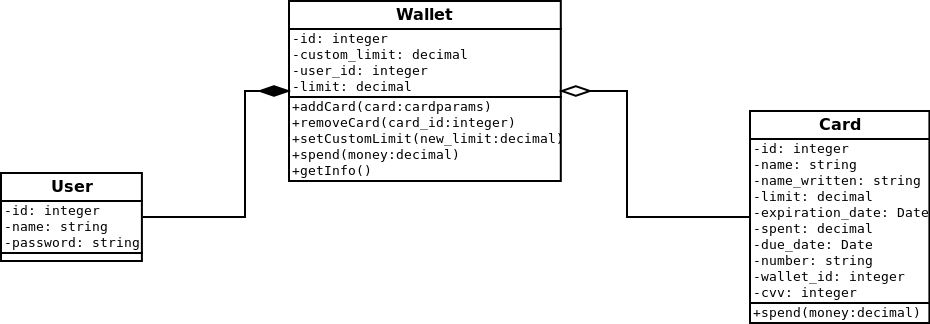
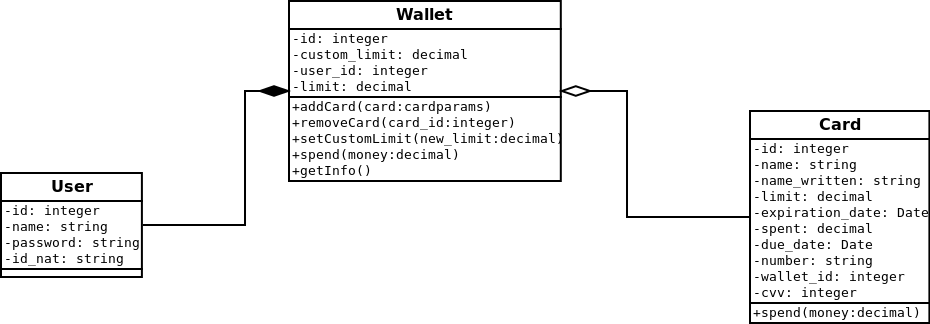
users created

Changed region(s): [[0.0, 0.7716, 0.1559, 0.8642], [0.1559, 0.6481, 0.2806, 0.7099]]

diff --git a/config/application.rb b/config/application.rb
@@ -1,7 +1,6 @@
 require_relative 'boot'
 
 require "rails"
-# Pick the frameworks you want:
 require "active_model/railtie"
 require "active_job/railtie"
 require "active_record/railtie"
@@ -9,7 +8,6 @@ require "action_controller/railtie"
 require "action_mailer/railtie"
 require "action_view/railtie"
 require "action_cable/engine"
-# require "sprockets/railtie"
 require "rails/test_unit/railtie"
 
 # Require the gems listed in Gemfile, including any gems
@@ -20,14 +18,14 @@ module Wallet
   class Application < Rails::Application
     # Initialize configuration defaults for originally generated Rails version.
     config.load_defaults 5.1
-
-    # Settings in config/environments/* take precedence over those specified here.
-    # Application configuration should go into files in config/initializers
-    # -- all .rb files in that directory are automatically loaded.
-
-    # Only loads a smaller set of middleware suitable for API only apps.
-    # Middleware like session, flash, cookies can be added back manually.
-    # Skip views, helpers and assets when generating a new resource.
     config.api_only = true
+
+    config.middleware.insert_before 0, Rack::Cors do
+      allow do
+        origins '*'
+        resource '*', :headers => :any, :methods => [:get, :post, :options]
+      end
+    end
+
   end
 end

diff --git a/db/schema.rb b/db/schema.rb
@@ -1,0 +1,23 @@
+# This file is auto-generated from the current state of the database. Instead
+# of editing this file, please use the migrations feature of Active Record to
+# incrementally modify your database, and then regenerate this schema definition.
+#
+# Note that this schema.rb definition is the authoritative source for your
+# database schema. If you need to create the application database on another
+# system, you should be using db:schema:load, not running all the migrations
+# from scratch. The latter is a flawed and unsustainable approach (the more migrations
+# you'll amass, the slower it'll run and the greater likelihood for issues).
+#
+# It's strongly recommended that you check this file into your version control system.
+
+ActiveRecord::Schema.define(version: 20171101152234) do
+
+  create_table "users", force: :cascade do |t|
+    t.string "name"
+    t.string "password"
+    t.string "id_nat"
+    t.datetime "created_at", null: false
+    t.datetime "updated_at", null: false
+  end
+
+end

diff --git a/test/controllers/user_controller_test.rb b/test/controllers/user_controller_test.rb
@@ -1,0 +1,14 @@
+require 'test_helper'
+
+class UserControllerTest < ActionDispatch::IntegrationTest
+  test "should get index" do
+    get user_index_url
+    assert_response :success
+  end
+
+  test "should get create" do
+    get user_create_url
+    assert_response :success
+  end
+
+end

diff --git a/db/migrate/20171101152234_create_users.rb b/db/migrate/20171101152234_create_users.rb
@@ -1,0 +1,11 @@
+class CreateUsers < ActiveRecord::Migration[5.1]
+  def change
+    create_table :users do |t|
+      t.string :name
+      t.string :password
+      t.string :id_nat
+
+      t.timestamps
+    end
+  end
+end

diff --git a/config/routes.rb b/config/routes.rb
@@ -1,3 +1,7 @@
 Rails.application.routes.draw do
+
+  get 'user/index'
+  get 'user/create'
+
   # For details on the DSL available within this file, see http://guides.rubyonrails.org/routing.html
 end

diff --git a/app/controllers/user_controller.rb b/app/controllers/user_controller.rb
@@ -1,0 +1,9 @@
+class UserController < ApplicationController
+  def index
+  	@users = User.all
+  	render json: @users
+  end
+
+  def create
+  end
+end

diff --git a/test/models/user_test.rb b/test/models/user_test.rb
@@ -1,0 +1,7 @@
+require 'test_helper'
+
+class UserTest < ActiveSupport::TestCase
+  # test "the truth" do
+  #   assert true
+  # end
+end

diff --git a/app/models/user.rb b/app/models/user.rb
@@ -1,0 +1,2 @@
+class User < ApplicationRecord
+end

diff --git a/README.md b/README.md
@@ -1,2 +1,6 @@
 # wallet-challenge
 API em Rails de um sistema de gerenciamento de cartões de crédito
+
+Ruby version: 2.4.0
+Rails version: 5.1.4
+
